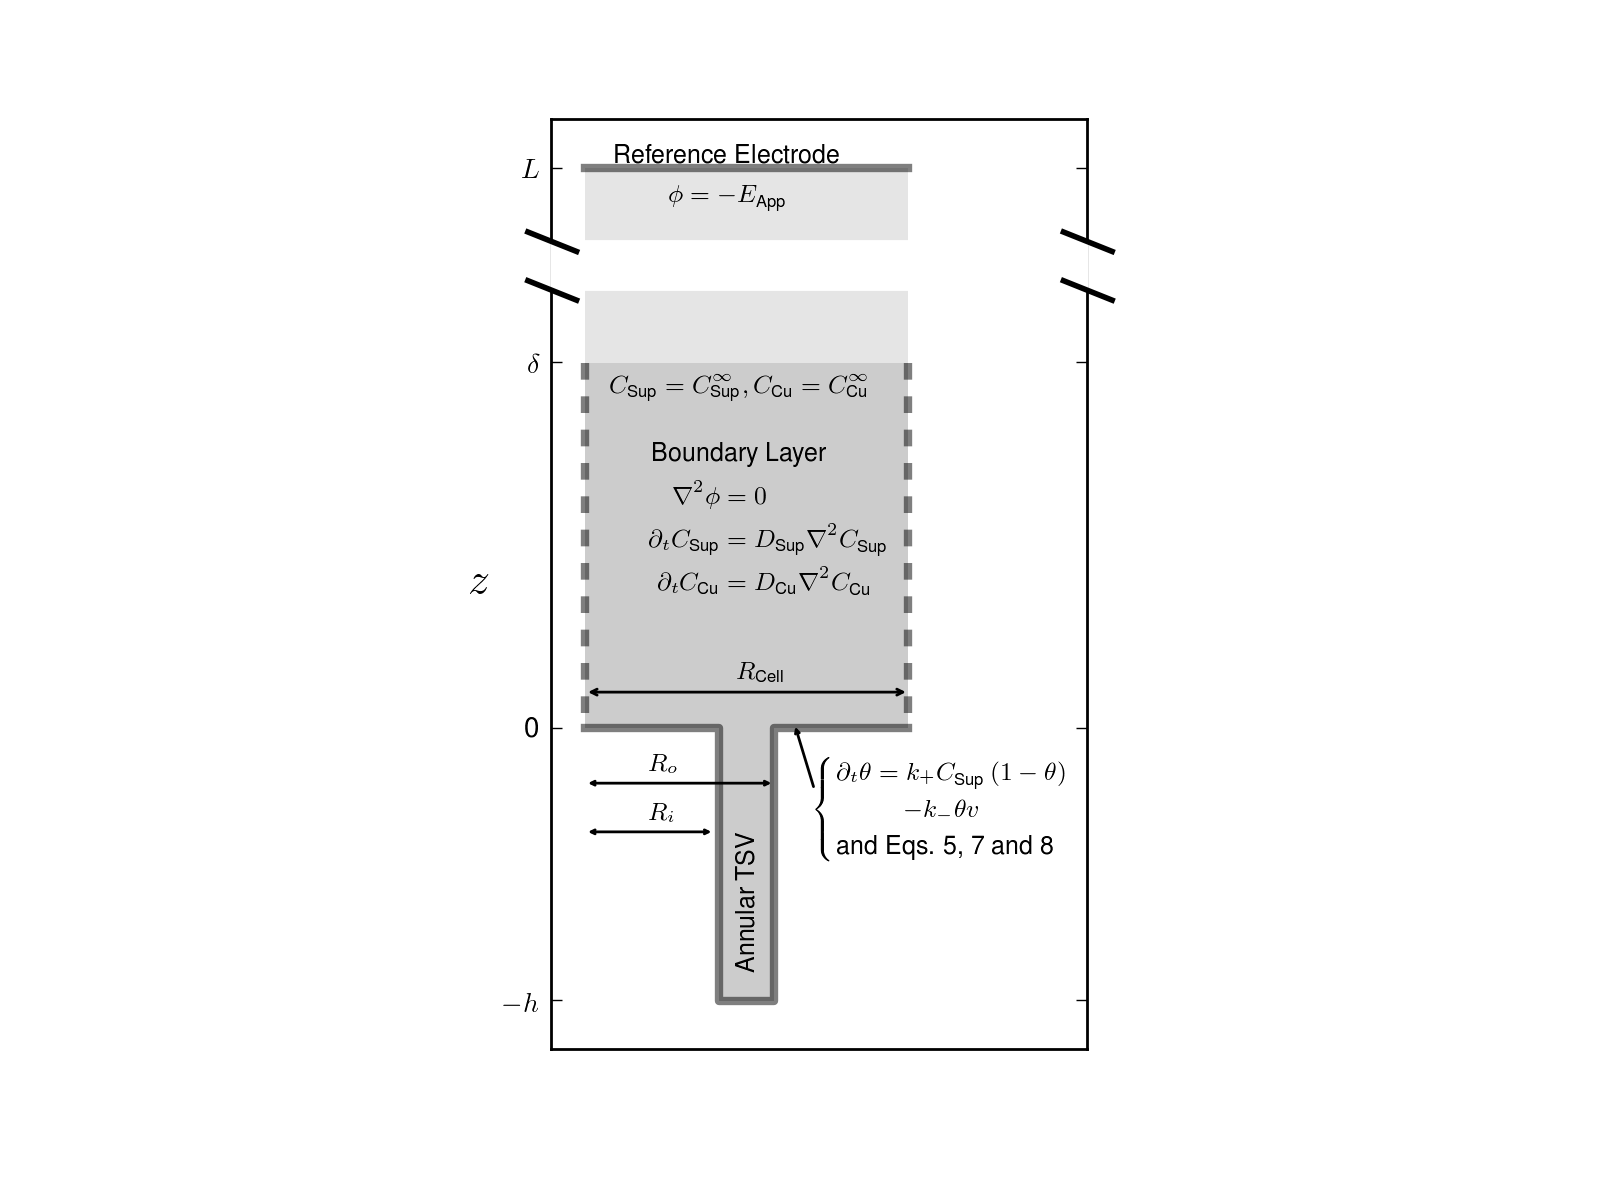
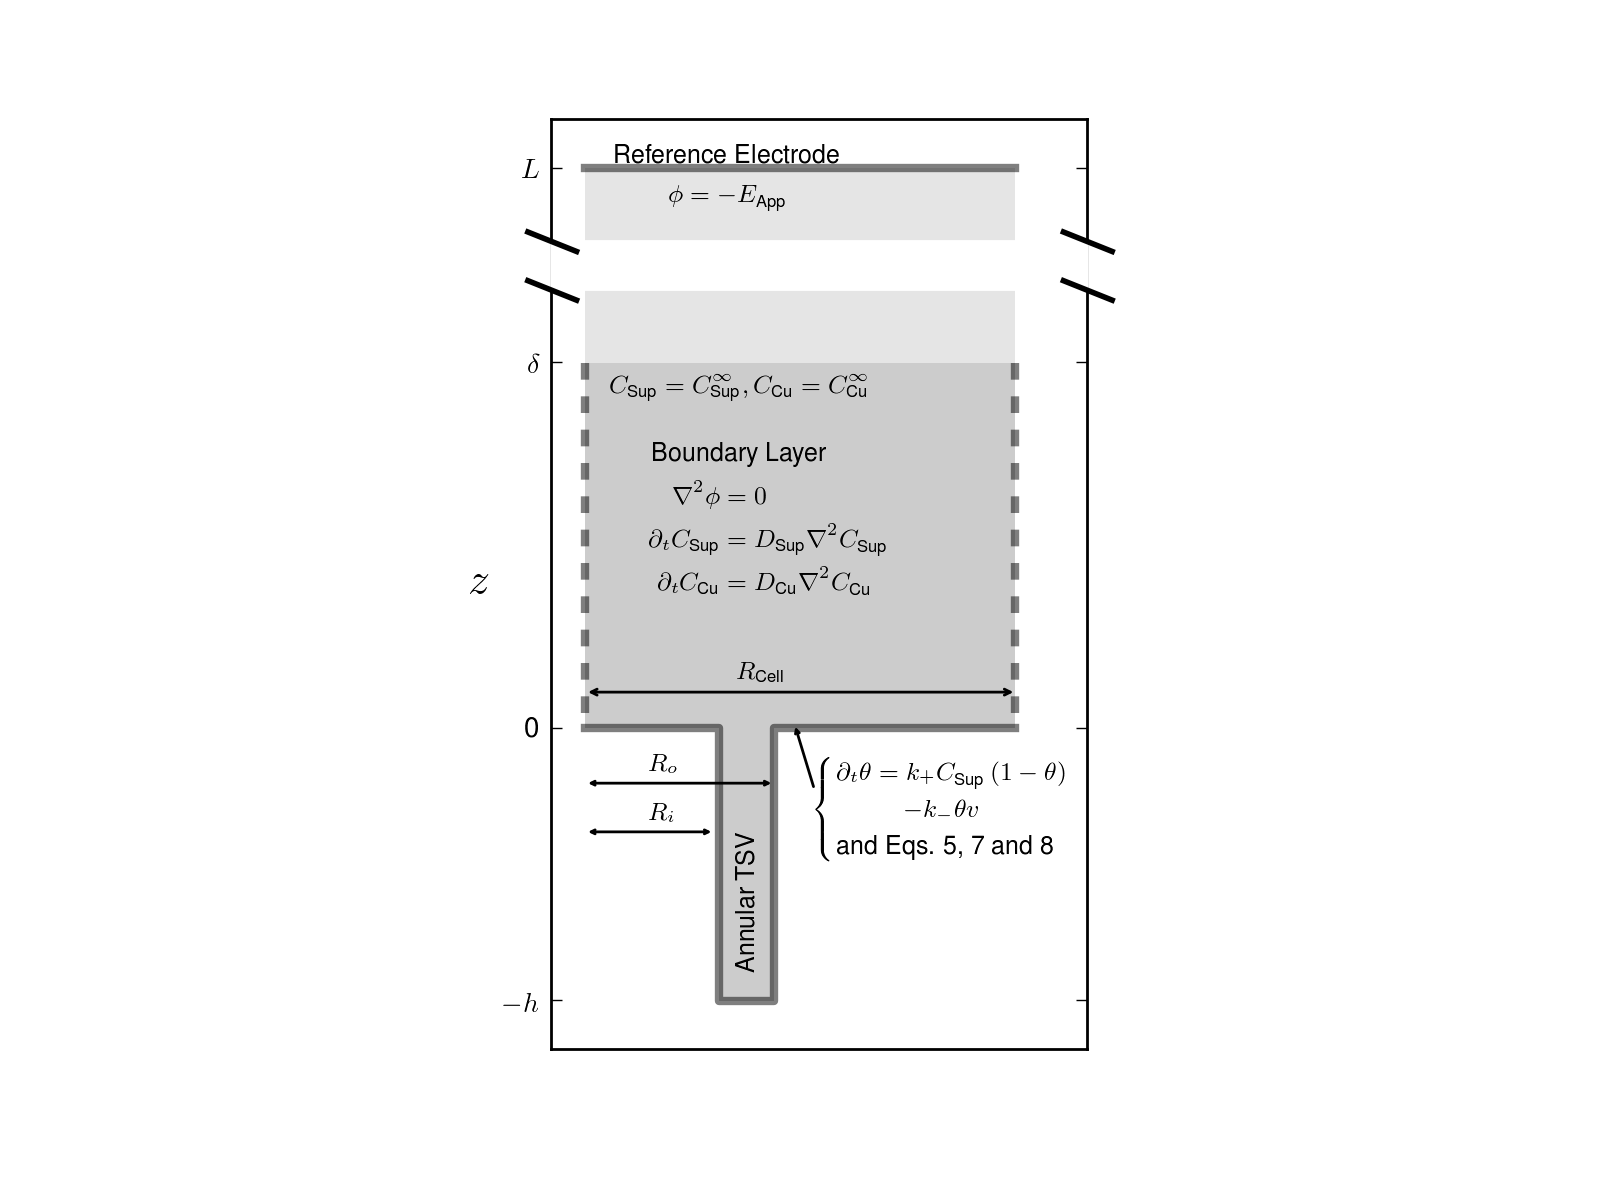
Updated figure 2 to be asymmetric.

Changed region(s): [[0.5625, 0.1233, 0.6562, 0.6167]]

diff --git a/schematicViewer.py b/schematicViewer.py
@@ -36,19 +36,19 @@ class SchematicViewer(object):
 
 
         ax.add_patch(pylab.Rectangle((-w / 2, -h), w, h, alpha=0.2, color='black', ec='none', zorder=1))
-        ax.add_patch(pylab.Rectangle((-r / 2, 0), r, d, alpha=0.2, color='black', ec='none', zorder=1))
-        ax.add_patch(pylab.Rectangle((-r / 2, d), r, L - d, alpha=0.1, color='black', ec='none', zorder=1))
+        ax.add_patch(pylab.Rectangle((-r / 2, 0), r + r / 3, d, alpha=0.2, color='black', ec='none', zorder=1))
+        ax.add_patch(pylab.Rectangle((-r / 2, d), r + r / 3, L - d, alpha=0.1, color='black', ec='none', zorder=1))
 
-        pylab.plot((-r / 2, -w / 2, -w / 2, w / 2, w / 2, r / 2),
+        pylab.plot((-r / 2, -w / 2, -w / 2, w / 2, w / 2, r / 2 + r / 3),
                    (0, 0, -h, -h, 0, 0), 'k', lw=3, alpha=0.5)
 
         pylab.plot((-r / 2, -r / 2),
                    (d, 0), 'k--', lw=3, alpha=0.5)
 
-        pylab.plot((r / 2, r / 2),
+        pylab.plot((r / 2 + r / 3, r / 2 + r / 3),
                    (d, 0), 'k--', lw=3, alpha=0.5)
 
-        pylab.plot((-r / 2, r / 2),
+        pylab.plot((-r / 2, r / 2 + r / 3),
                    (L, L), 'k', lw=3, alpha=0.5)
 
 
@@ -142,7 +142,7 @@ class SchematicViewer(object):
 
         asy = 0 + d * 0.1
         
-        ax.add_patch(FancyArrowPatch((-asw / 2, asy),(asw / 2, asy), arrowstyle='<->',mutation_scale=15, lw=1))
+        ax.add_patch(FancyArrowPatch((-asw / 2, asy),(asw / 2 + r / 3, asy), arrowstyle='<->',mutation_scale=15, lw=1))
         pylab.text(-2, asy + 2, r'$R_{\text{Cell}}$', fontsize=eqnFont)
 
         caseYY = caseY + 16
